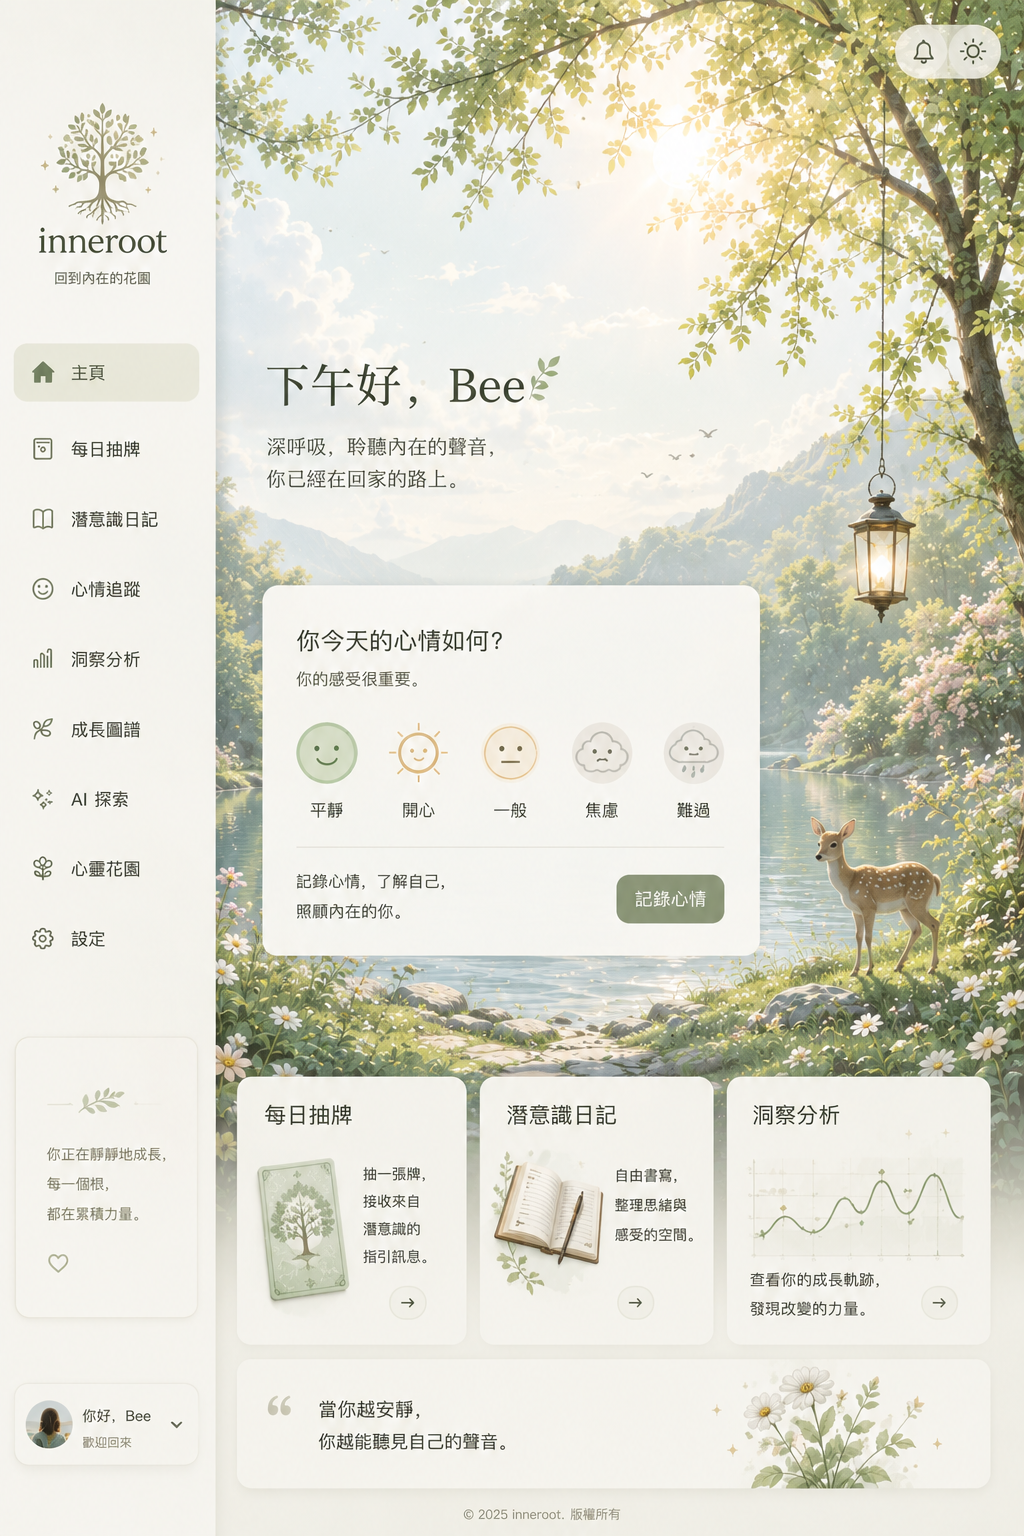
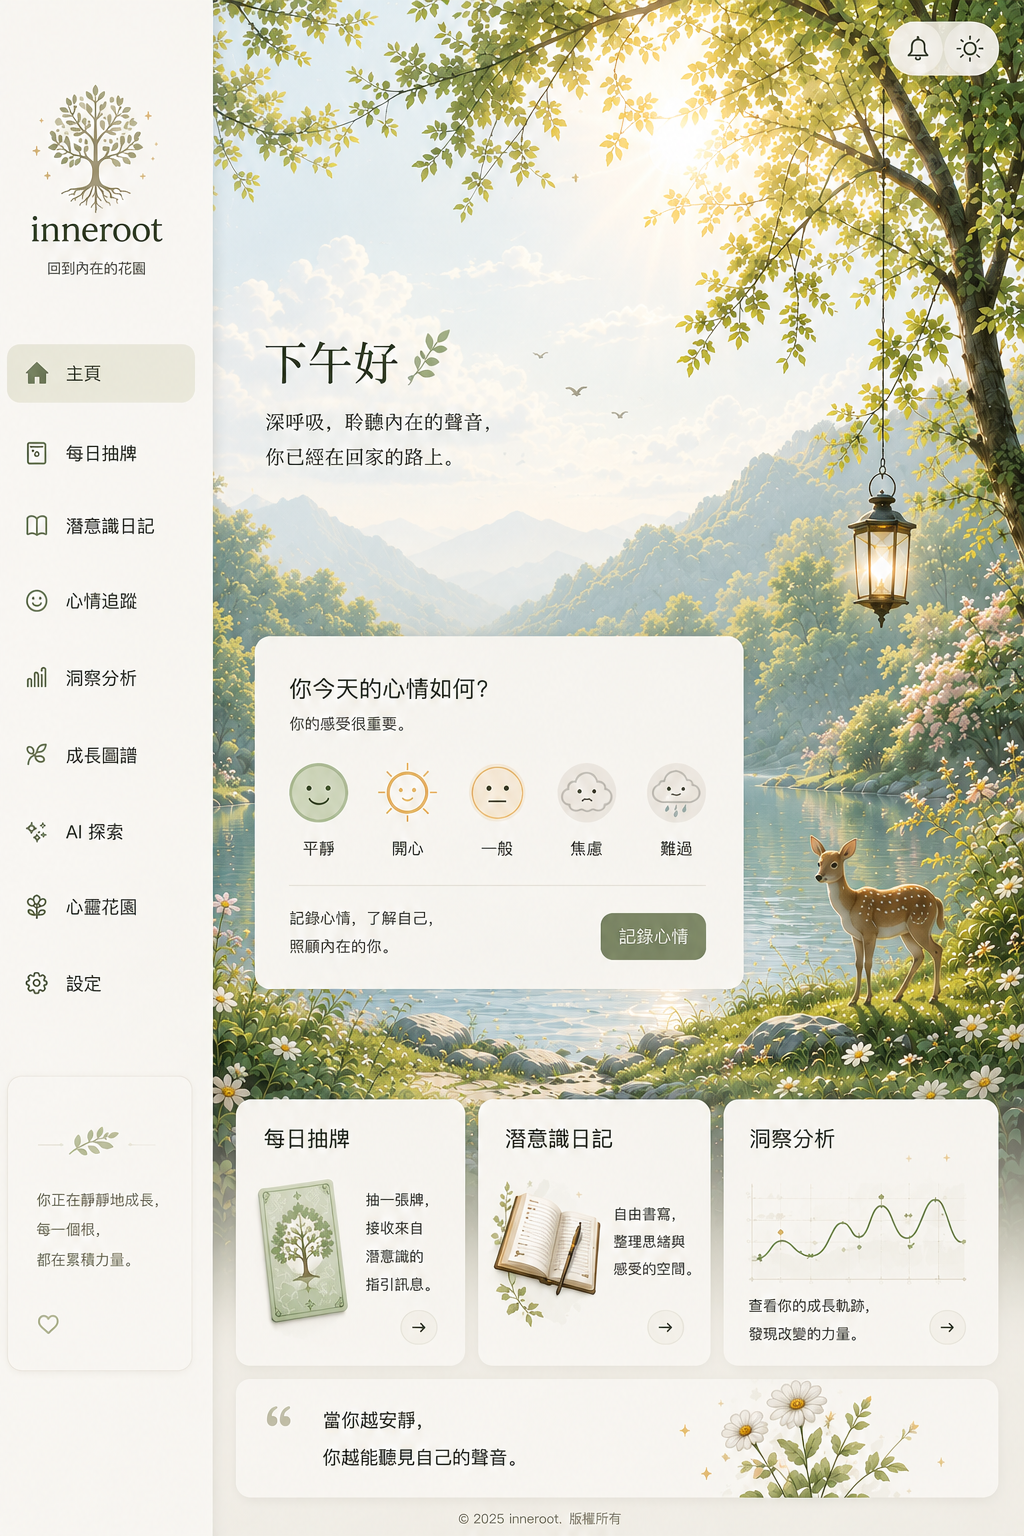
Add files via upload

diff --git a/style.css b/style.css
@@ -2721,40 +2721,3 @@ textarea{width:100%;min-height:190px;border:1px solid rgba(57,91,68,.17);border-
   .draw-v70-cardback,.draw-v70-glow,.draw-v70-ripple{animation:none!important}
   .draw-v70-cardback.is-revealing{opacity:0;transition:opacity .2s ease}
 }
-
-
-/* =========================================================
-   Inneroot V7.1.1 Hotfix
-   Only covers the two personal-name areas baked into
-   inneroot-home.png. No layout, animation or feature changes.
-   ========================================================= */
-.bee-name-cover{
-  position:absolute;
-  z-index:2;
-  pointer-events:none;
-  background:
-    radial-gradient(circle at 72% 18%,rgba(255,249,222,.34),transparent 32%),
-    linear-gradient(135deg,rgba(247,250,242,.98),rgba(232,242,228,.98));
-}
-
-/* Main "你好 BEE" area */
-.bee-name-cover-main{
-  left:22.8%;
-  top:6.7%;
-  width:74.4%;
-  height:14.4%;
-  border-radius:22px;
-}
-
-/* Lower-left "你好 BEE / 歡迎登入" area */
-.bee-name-cover-account{
-  left:2.15%;
-  bottom:2.6%;
-  width:18.7%;
-  height:8.3%;
-  border-radius:17px;
-}
-
-@media(max-width:760px){
-  .bee-name-cover{display:none!important}
-}

diff --git a/index.html b/index.html
@@ -5,7 +5,7 @@
   <meta name="viewport" content="width=device-width, initial-scale=1">
   <title>Inneroot</title>
   <meta name="description" content="與潛意識對話，遇見真正的自己。">
-  <link rel="stylesheet" href="style.css?v=7.1.1">
+  <link rel="stylesheet" href="style.css?v=7.1.0">
   <link rel="stylesheet" href="fix-v48.css?v=4.8.0">
   <link rel="stylesheet" href="fix-v49.css?v=4.9.0">
   <link rel="stylesheet" href="fix-v50.css?v=5.0.0">
@@ -24,9 +24,7 @@
 <body>
   <main class="page-shell desktop-home">
     <section class="design-stage">
-      <img src="inneroot-home.png" alt="Inneroot 淺色森林首頁" class="design-image">
-      <div class="bee-name-cover bee-name-cover-main" aria-hidden="true"></div>
-      <div class="bee-name-cover bee-name-cover-account" aria-hidden="true"></div>
+      <img src="inneroot-home.png?v=7.1.2" alt="Inneroot 淺色森林首頁" class="design-image">
       <button class="hotspot nav-home" data-action="home" aria-label="首頁"></button>
       <button class="hotspot nav-draw" data-action="draw" aria-label="每日抽牌"></button>
       <button class="hotspot nav-journal" data-action="journal" aria-label="潛意識日記"></button>